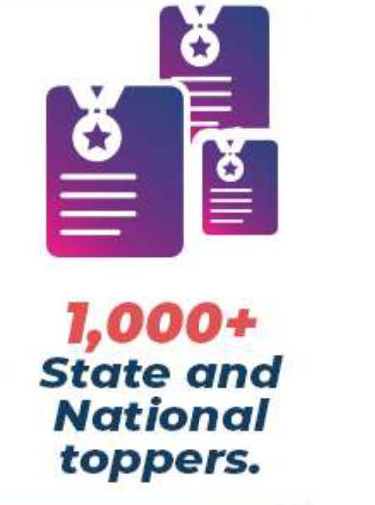
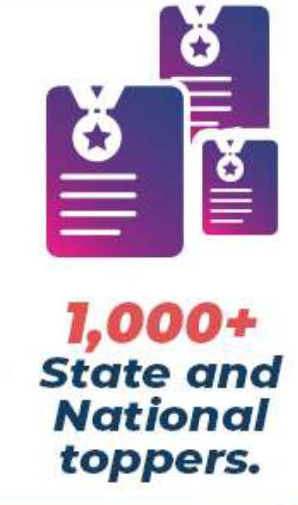
images

diff --git a/index.html b/index.html
@@ -168,7 +168,7 @@
             <div class="box box1 col-lg-12" data-aos="flip-left" data-aos-easing="ease-out-cubic"
               data-aos-duration="2000"
               style="box-shadow:3px 3px 12px 5px rgba(61, 4, 246, 0.1); padding:70px 50px; border-radius:20px;border: 1px solid #093869; ">
-              <img style="width: 300px;height:300px; margin-left: -15px;" src="result1.png" alt="">
+              <img style="width: 300px;height:300px; " src=" result1.png" alt="">
             </div>
           </div>
           <div class="col-lg-4" style="margin-bottom:20px;">
@@ -176,7 +176,7 @@
               data-aos-duration="2000"
               style="box-shadow:3px 3px 12px 5px rgba(61, 4, 246, 0.1); padding:70px 50px; border-radius:20px;border: 1px solid #093869;">
 
-              <img style="width: 300px;height:300px; margin-left: -15px;" src="result2.png" alt="">
+              <img style="width: 300px;height:300px; " src="result2.png" alt="">
             </div>
           </div>
           <div class="col-lg-4" style="margin-bottom:20px;">
@@ -184,7 +184,7 @@
               data-aos-duration="2000"
               style="box-shadow:3px 3px 12px 5px rgba(61, 4, 246, 0.1); padding:70px 50px; border-radius:20px;border: 1px solid #093869;">
 
-              <img style="width: 300px;height:300px; margin-left: -15px;" src="result3.png" alt="">
+              <img style="width: 300px;height:300px; " src="result3.png" alt="">
             </div>
           </div>
           <div class="col-lg-4" style="margin-bottom:20px;">
@@ -192,7 +192,7 @@
               data-aos-duration="2000"
               style="box-shadow:3px 3px 12px 5px rgba(61, 4, 246, 0.1); padding:70px 50px; border-radius:20px;border: 1px solid #093869;">
 
-              <img style="width: 300px;height:300px; margin-left: -15px;" src="result4.png" alt="">
+              <img style="width: 300px;height:300px;" src="result4.png" alt="">
             </div>
           </div>
 
